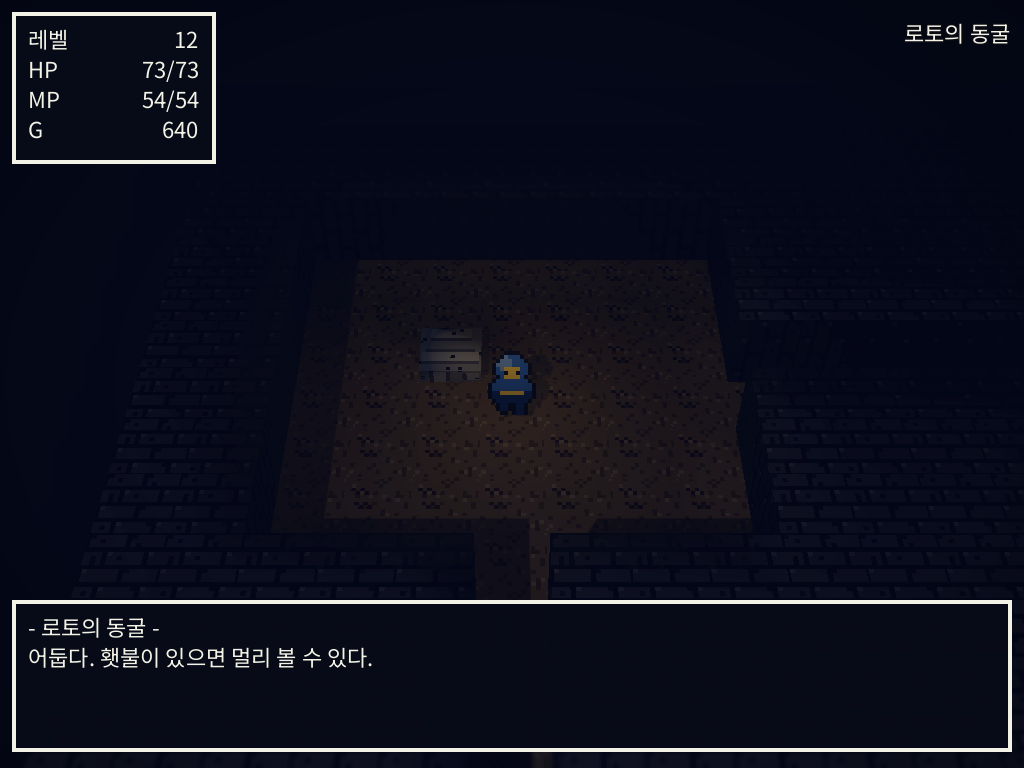
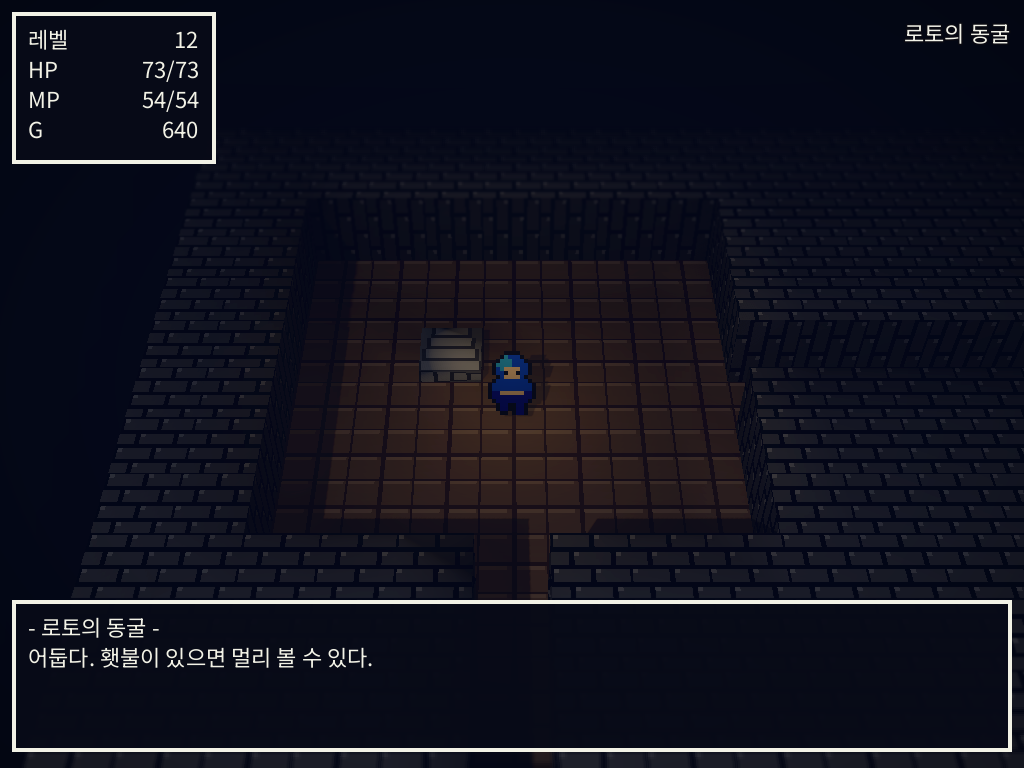
dq1: 생성 아트를 NES 원작 쪽으로 다시 그린다
무료 CC0 팩을 뒤졌지만 쓸 만한 게 없었다. 당연한 일이다 — 원작 드래곤 퀘스트
같은 화풍의 CC0 팩은 사실상 존재할 수 없다. 있으면 파생 저작물이라 라이선스가
성립하지 않는다. 그래서 찾는 대신 생성기를 그 방향으로 다듬었다.

진짜 차이는 색이 아니라 반복이었다.

첫 버전은 시드 RNG 로 타일마다 텍스처를 뿌렸다. 그게 현대적이고 부산스러운
인상의 원인이었다. 필드 타일은 한 번 그려서 맵 위에 천 번 찍힌다. 정해진 자리에
놓인 무늬는 반복되면 "풀" 로 읽히지만, 무작위로 흩뿌린 점은 반복되면 "흙" 이나
노이즈로 읽힌다. NES 타일이 규칙적인 건 용량 때문만이 아니라 그래야 보이기
때문이다.

이제 지형 패턴에 난수가 하나도 없다. 모든 타일이 자기 가장자리와 맞물리는
의도된 배치라, 깔아 놓으면 이음새도 노이즈도 없다. 숲은 8x8 격자 위의 캐노피
네 개라 옆 타일과 이어지고, 물은 4행마다 위상이 바뀌는 파도, 바닥은 네 장짜리
판석, 벽은 반 장씩 어긋난 벽돌이다.

팔레트도 NES 모양으로 바꿨다 — 적고, 채도 높고, 대비 크게. 필드 타일은 평면
3색이고 아이콘만 4색을 쓴다. 스프라이트(주인공·NPC·몬스터 9종)와 2.5D 입체물도
같은 팔레트로 맞췄다. 한쪽만 옛 색으로 남으면 그 자리가 제일 먼저 눈에 띈다.

성마을과 동굴 타일은 이제 들판 위에 서 있다 — 아이콘 타일이 배경으로 필드
패턴을 먼저 깔기 때문에, 들판에서 도려낸 네모가 아니라 들판에 있는 물건으로
읽힌다.

docs/asset-layout.png 와 스크린샷 13장 재생성.

validate 649 / core 239 / architecture 508 / presentation 1,676 /
smoke-view 16x2 / fuzz-input 9 runs / fuzz-core 881,720 — 전부 0 failures.

Claude-Session: https://claude.ai/code/session_015TREu1UhEBxTu6HQDkeKtu

diff --git a/dq1-clone/docs/08-ASSETS.md b/dq1-clone/docs/08-ASSETS.md
@@ -11,6 +11,35 @@
 [진짜 에셋으로 바꾸려면](#진짜-에셋으로-바꾸려면)에 있습니다 — 시트 레이아웃이
 계약으로 적혀 있고, 잘못 넣으면 화면을 보기 전에 테스트가 잡습니다.
 
+## 화풍: NES 원작
+
+무료 CC0 팩을 한참 뒤졌지만 마음에 드는 게 없었습니다. 당연한 일입니다 —
+**원작 드래곤 퀘스트 같은 화풍의 CC0 팩은 사실상 존재할 수 없습니다.** 그런 게
+있으면 파생 저작물이라 라이선스가 성립하지 않으니까요. 그래서 찾는 대신
+생성기를 그 방향으로 다듬었습니다.
+
+### 진짜 차이는 색이 아니라 "반복"이었다
+
+첫 버전은 시드 RNG로 타일마다 텍스처를 뿌렸습니다. 그게 현대적이고 부산스러운
+인상의 원인이었습니다.
+
+**필드 타일은 한 번 그려서 맵 위에 천 번 찍힙니다.** 정해진 자리에 놓인 무늬는
+반복되면 "풀"로 읽히지만, 무작위로 흩뿌린 점은 반복되면 "흙" 이나 "노이즈" 로
+읽힙니다. NES 시대의 타일이 규칙적인 건 용량 때문만이 아니라 그래야 보이기
+때문입니다.
+
+지금은 **지형 패턴에 난수가 하나도 없습니다.** 모든 타일이 자기 가장자리와
+맞물리는 의도된 배치라서, 깔아 놓으면 이음새도 노이즈도 없습니다.
+
+| | 전 | 후 |
+| --- | --- | --- |
+| 무늬 | 시드 RNG 로 흩뿌림 | 고정 위치, 타일 경계에서 맞물림 |
+| 색 수 | 타일마다 4색 + 얼룩 | 평면 3색 (아이콘만 4색) |
+| 팔레트 | 파스텔에 가까움 | NES — 채도 높고 대비 큼 |
+
+숲은 8×8 격자 위의 캐노피 네 개라 옆 타일과 이어지고, 물은 4행마다 위상이
+바뀌는 파도, 바닥은 네 장짜리 판석, 벽은 반 장씩 어긋난 벽돌입니다.
+
 ## 무엇이 생성되는가
 
 | 산출물 | 생성기 | 내용 |
